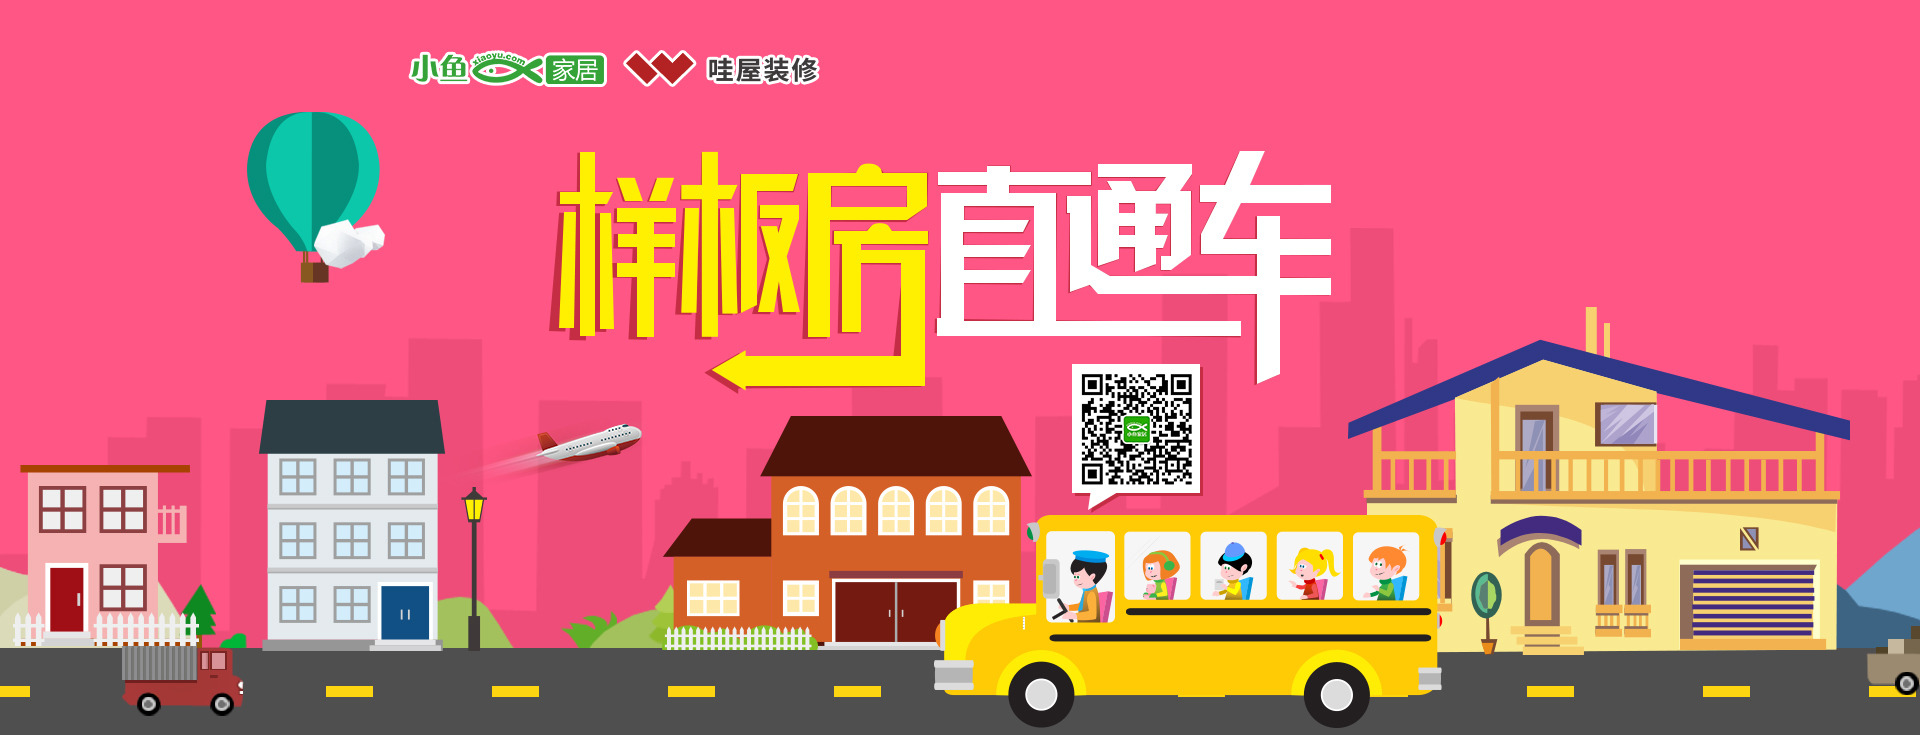
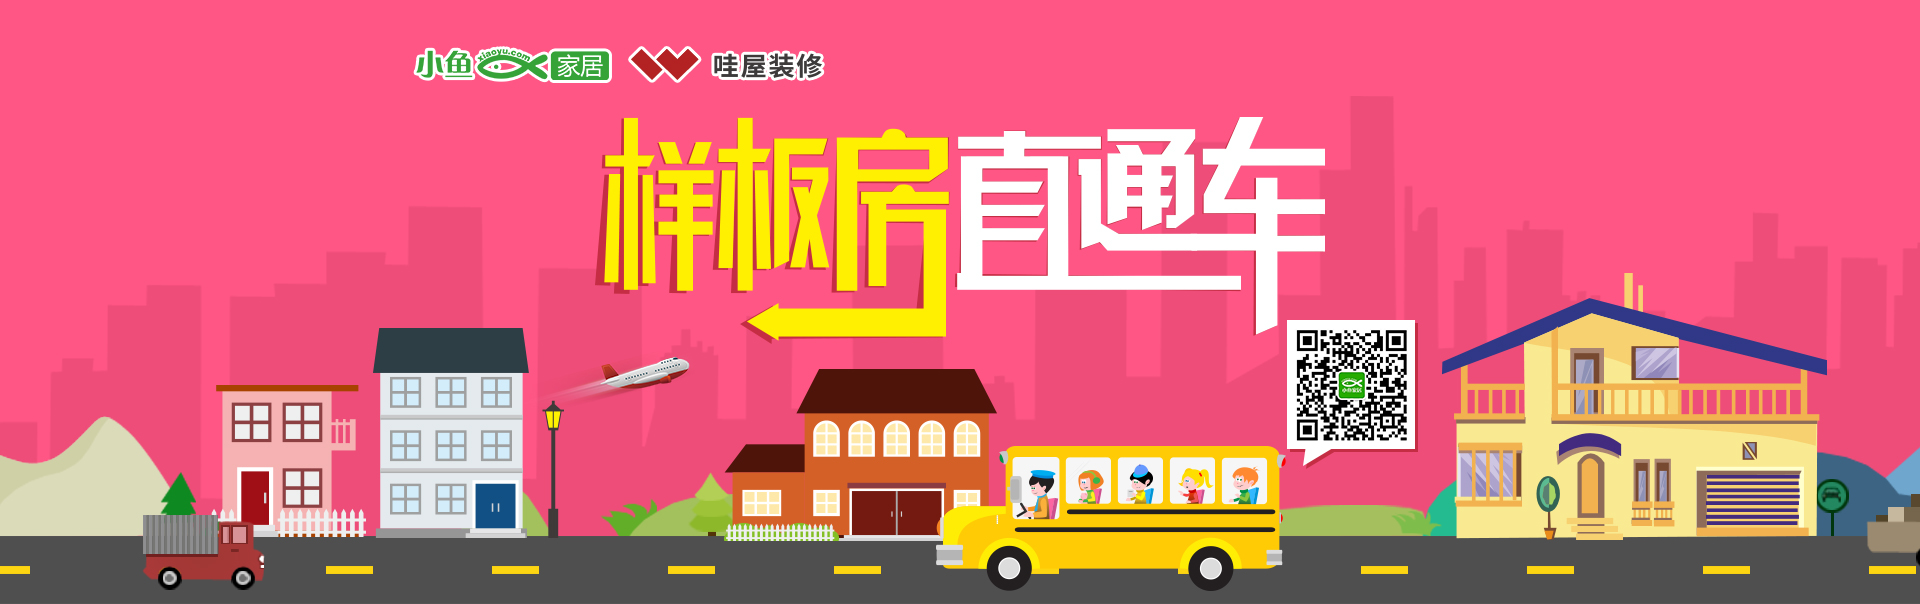
c

diff --git a/src/ZT-ZhuangXiuYangBanFang-h5/js/mdialog/mDialog.js b/src/ZT-ZhuangXiuYangBanFang-h5/js/mdialog/mDialog.js
@@ -26,6 +26,8 @@
             buttons: {},
             baseViewWidth: 750,
             baseViewHeight: 1344,
+            scrollTop:0,
+            hasInput:false,
             onBeforeShow: function() {},
             onShow: function() {},
             onBeforeClose: function() {},
@@ -190,8 +192,8 @@
             _this = this;
         if ($.isArray(opts.buttons) && !!opts.buttons.length) {
             $.each(opts.buttons, function(index, obj) {
-                obj.className = !!obj.className ? obj.className : "";
-                var $btn = $('<a href="javascript:void(0)" class="mDialog-btn ' + obj.className + '">' + obj.text + '</a>');
+                obj.class = !!obj.class ? obj.class : "";
+                var $btn = $('<a href="javascript:void(0);" class="mDialog-btn ' + (obj.className ? obj.className : "") + '">' + obj.text + '</a>');
                 if (!!obj.callback) {
                     $btn.on(deviceUtil.tapEvent, function(event) {
                         event.preventDefault();
@@ -458,7 +460,6 @@
                 opts.content.css({
                     visibility: "visible",
                     display: "block",
-                    float:"none",
                     clear: "both"
                 });
                 opts.content.wrap('<div class="' + containerClassName + '"><div class="mDialog-layer-main"></div></div>');
@@ -521,7 +522,11 @@
         !!$footerButton && $footerButton.appendTo($container);
         $container.css({ "zIndex": mDialog.zIndex + 1, "visibility": "visible" });
         containerCloseHandle = function() {
-
+            if(!!opts.hasInput){
+                $("html,body").css({"height":"auto","overflow":"visible"});
+                $(window).scrollTop(opts.scrollTop);
+            }
+            
             !!opts.onBeforeClose && opts.onBeforeClose();
             if (opts.animOut) {
 
@@ -550,16 +555,20 @@
                 opts.onShow();
                 !!opts.pause && setTimeout(function() {
                     _this.close();
+                    
                 }, opts.pause)
             });
         } else {
             !!opts.onShow && opts.onShow();
             !!opts.pause && setTimeout(function() {
                 _this.close();
+               
             }, opts.pause)
         }
-
-
+        if(!!opts.hasInput){
+            opts.scrollTop=$(window).scrollTop();
+            $("html,body").css({"height":"100%","overflow":"hidden"});
+        }
         $container.removeSelf = containerCloseHandle;
         mDialog.stack[this.opts.uid].push($container);
     };
@@ -636,7 +645,8 @@
                 delete mDialog.stack[sindex];
             }
         });
-
+        
+         
     };
 
     mDialog.open = function(options, type) {

diff --git a/src/ZT-ZhuangXiuYangBanFang/index.html b/src/ZT-ZhuangXiuYangBanFang/index.html
@@ -13,7 +13,7 @@
     <script type="text/javascript" src="js/index.js"></script>
 </head>
 
-<body>
+<body style="padding-top:0;">
     @@include("./views/_header.html")
     <div class="banner"></div>
     <div class="container">
@@ -77,6 +77,18 @@
             </div>
             <div class="zysx-box">
                 <p class="caption">注意事项</p>
+                <div class="detail-item detail-item-5 clearfix">
+                    <label class="lab"><i></i>活动时间：</label>
+                    <div class="intro-txt">2017年10月21日 9:00-12:00</div>
+                </div>
+                <div class="detail-item detail-item-6 clearfix">
+                    <label class="lab"><i></i>活动内容：</label>
+                    <div class="intro-txt">水电·泥水·成品样板间 </div>
+                </div>
+                <div class="detail-item detail-item-7 clearfix">
+                    <label class="lab"><i></i>签到地点：</label>
+                    <div class="intro-txt">双十中学BRT</div>
+                </div>
                 <div class="detail-item detail-item-1 clearfix">
                     <label class="lab"><i></i>微信报名：</label>
                     <div class="intro-txt">xy18050086060</div>
@@ -102,18 +114,7 @@
                         <p>2、本活动只针对未开工和半年内有计划要装修的鱼鱼；</p>
                     </div>
                 </div>
-                <div class="detail-item detail-item-5 clearfix">
-                    <label class="lab"><i></i>活动时间：</label>
-                    <div class="intro-txt">2017年10月21日 9:00-12:00</div>
-                </div>
-                <div class="detail-item detail-item-6 clearfix">
-                    <label class="lab"><i></i>活动内容：</label>
-                    <div class="intro-txt">水电·泥水·成品样板间 </div>
-                </div>
-                <div class="detail-item detail-item-7 clearfix">
-                    <label class="lab"><i></i>签到地点：</label>
-                    <div class="intro-txt">双十中学BRT</div>
-                </div>
+                
             </div>
         </div>
         <div class="coms-tit-1">

diff --git a/src/ZT-ZhuangXiuYangBanFang-h5/index.html b/src/ZT-ZhuangXiuYangBanFang-h5/index.html
@@ -192,6 +192,7 @@
                 title: false,
                 closeBtn: true,
                 duration: 200,
+                hasInput:true,
                 width: "80%",
                 height: "90%",
                 maxHeight: "90%",
@@ -218,7 +219,6 @@
                     closeBtn: false,
                     duration: 200,
                     width: "95%",
-                    maxWidth: "95%",
                     content: $("#J_dialog-time-area"),
                     buttons: false,
                     onBeforeShow: function() {

diff --git a/src/ZT-ZhuangXiuYangBanFang-h5/js/mdialog/mDialog.css b/src/ZT-ZhuangXiuYangBanFang-h5/js/mdialog/mDialog.css
@@ -178,6 +178,7 @@
     clear: both; }
   .mDialog-layer-main.mDialog-layer-main-full > div {
     height: 100%;
+    width:100%; 
     overflow: hidden; }
   .mDialog-layer-main > div {
     position: relative; }

diff --git a/src/ZT-ZhuangXiuYangBanFang-h5/css/style.scss b/src/ZT-ZhuangXiuYangBanFang-h5/css/style.scss
@@ -430,7 +430,7 @@
 
  .dialog-time-area{
  	background: #fff;
-    float: left;
+    width:100%;
     visibility: hidden;
     display: none;
     border-radius: px2rem(10px);

diff --git a/src/ZT-ZhuangXiuYangBanFang/css/style.scss b/src/ZT-ZhuangXiuYangBanFang/css/style.scss
@@ -8,7 +8,7 @@
 }
 
 .banner {
-    height: 735px;
+    height: 604px;
     background: url("../images/banner.jpg") no-repeat top center;
 }
 
